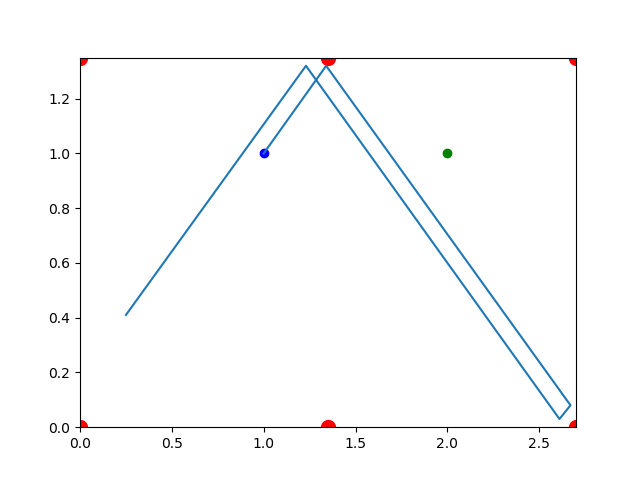
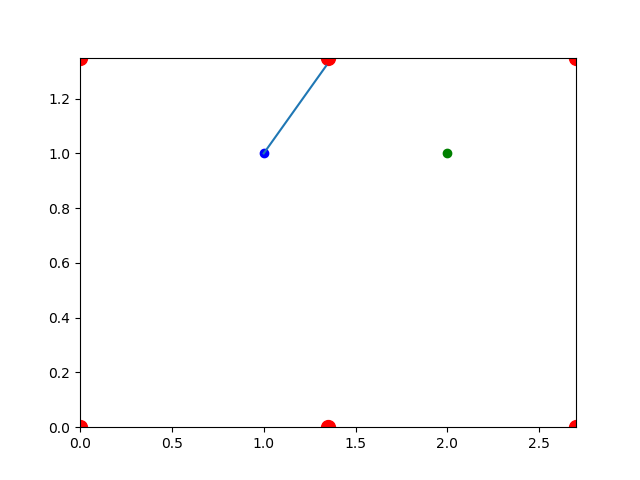
Goal checking fixed

diff --git a/fiz3/phproject3.py b/fiz3/phproject3.py
@@ -1,4 +1,5 @@
 import pandas
+import numpy
 import matplotlib.pyplot as plt
 import math
 import sympy
@@ -52,7 +53,8 @@ def checkGoal(pos):
     error = MARGIN + HOLE_R
     if (pos[1] > -error and pos[1] < error) or (pos[1] > TABLE[1]-error and pos[1] < TABLE[1]+error):
         for i in x:
-            return pos[0] > i - error and pos[0] < i + error
+            if pos[0] > i - error and pos[0] < i + error:
+                return True
     return False
 
 """ Distance between points a and b """
@@ -136,8 +138,9 @@ class LineMovement:
         return (self.Begin[0] + dx, self.Begin[1] + dy)
 
 class Ball:
-    def __init__(self, pos, v=(0, 0)):
+    def __init__(self, pos, v=(0, 0), mass=BALL_MASS):
         self.Movement = LineMovement(pos, v)
+        self.Mass = mass
         self.bounces = [pos]
         self.times = [0.0]
         self.elapsed = 0.0
@@ -170,20 +173,26 @@ class Ball:
             other.Movement.update(bht, None)
             self.addBounce(self.Movement.Begin, bht)
             other.addBounce(other.Movement.Begin, bht)
-            sumvec = (self.Movement.Velocity[0] + other.Movement.Velocity[0], self.Movement.Velocity[1] + other.Movement.Velocity[1])
-            angle = getVectorAngle(sumvec)
-            norm = self.Movement.VNorm**2.0 + other.Movement.VNorm**2.0
-            x = sympy.Symbol('x', real=True)
-            solutions = sympy.solve(norm - x**2.0 - (sumvec[0] / math.cos(angle) + x)**2.0, x)
+            momentum = numpy.array(self.Movement.Velocity) * self.Mass + numpy.array(other.Movement.Velocity) * other.Mass
+            energy = self.Movement.VNorm**2 * self.Mass + other.Movement.VNorm**2 * other.Mass
+            d = (math.tan(self.Movement.Angle) * other.Movement.Begin[0] - other.Movement.Begin[0] + self.Movement.Begin[1] - self.Movement.Begin[0] * math.tan(self.Movement.Angle)) / (math.tan(self.Movement.Angle)**2 + 1)**0.5
+            beta = math.asin(0.5 * d / BALL_R)
+            alpha = math.pi / 2 - beta
+            unit_vector_A = numpy.array([1, math.tan(self.Movement.Angle - alpha)])
+            unit_vector_A = unit_vector_A / (1 + unit_vector_A[1]**2)**0.5
+            unit_vector_B = numpy.array([1, math.tan(self.Movement.Angle + beta)])
+            unit_vector_B = unit_vector_B / (1 + unit_vector_B[1]**2)**0.5
             # TODO: update velocities
-            return solutions
+            self.Movement.setVelocity(list(unit_vector_A * 5))
+            other.Movement.setVelocity(list(unit_vector_B * 5))
 
-    def loop(self, cousins=[]):
+    def loop(self, counter, cousins=[]):
+        counter += 1
         # TODO: run collision test on cousins
-        wallbounce = self.Movement.getHitTime()
-        self.addBounce(self.Movement.Begin, wallbounce)
-        self.inside = not checkGoal(self.bounces[-1])
-        # TODO: return counters
+        wallbouncet = self.Movement.getHitTime()
+        self.addBounce(self.Movement.Begin, wallbouncet)
+        self.inside = not checkGoal(self.Movement.Begin)
+        return counter
 
     def dataSheet(self):
         return pandas.DataFrame(data={'x':[round(b[0], 2) for b in self.bounces], 'y':[round(b[1], 2) for b in self.bounces], 'delta t':[round(t, 3) for t in self.times]})
@@ -193,12 +202,11 @@ def main(index, fhandle):
     column = tuplify(DATA[index], NAMESIN, NAMESIN)
     draw([column['white'], column['colored']])
     balls = [Ball(column['white'], column['velocity']), Ball(column['colored'])]
-    counter = [0, 0, 0]
+    counter = 0
     # loop every bounce
-    print(balls[0].transferEnergy(balls[1], balls[0].getBallHit(balls[1])))
     while balls[0].inside and balls[1].inside:
-        balls[0].loop([balls[1],])
-        balls[1].loop([balls[0],])
+        counter = balls[0].loop(counter, [balls[1],])
+        counter = balls[1].loop(counter, [balls[0],])
         if balls[0].times[-1]>-10e-9 and balls[0].times[-1]<10e-9 and balls[1].times[-1]>-10e-9 and balls[1].times[-1]<10e-9:
             break
     white = balls[0].dataSheet()
@@ -209,6 +217,7 @@ def main(index, fhandle):
     plt.plot(white['x'], white['y'])
     plt.plot(color['x'], color['y'])
     plt.savefig("{}.png".format(index+1))
+    # TODO: write output.txt
     end = '(faul)'
     cend = '(score)'
     fhandle.write(';\n')
